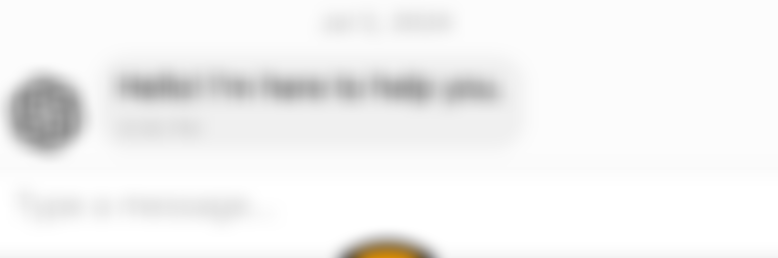
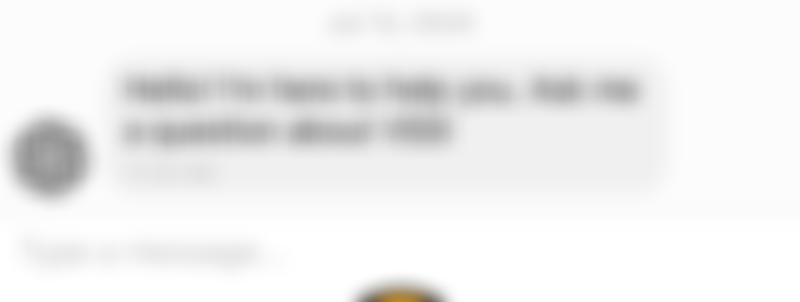
Update chatbot message

diff --git a/app/(tabs)/chatbot.tsx b/app/(tabs)/chatbot.tsx
@@ -35,7 +35,7 @@ const Chatbot = () => {
       {
         _id: uuidv4(),
         // change in production
-        text: `Hello! I'm here to help you.`,
+        text: `Hello! I'm here to help you. Ask me a question about VSS!`,
         createdAt: new Date(),
         user: {
           _id: 2,
@@ -202,7 +202,7 @@ const Chatbot = () => {
         <Image
           source={require('../../assets/images/image.png')}
           resizeMode="contain"
-          className="w-full -mb-16 mt-auto"
+          className="w-full -mb-20 mt-auto"
         />
 
       </SafeAreaView     >)}
